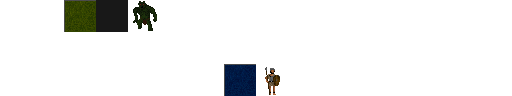
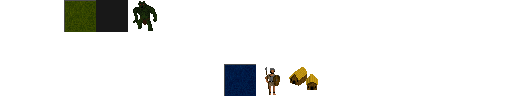
city wip

Changed region(s): [[0.5625, 0.6875, 0.625, 0.9375]]

diff --git a/Serialization/Entities/CitySerialized.cs b/Serialization/Entities/CitySerialized.cs
@@ -1,0 +1,52 @@
+using Newtonsoft.Json;
+using Novalia.Entities;
+using SadRogue.Primitives;
+using System;
+using System.Runtime.Serialization;
+
+namespace Novalia.Serialization.Entities
+{
+    public class CityJsonConverter : JsonConverter<City>
+    {
+        public override void WriteJson(JsonWriter writer, City value, JsonSerializer serializer) => serializer.Serialize(writer, (CitySerialized)value);
+
+        public override City ReadJson(JsonReader reader, Type objectType, City existingValue,
+                                        bool hasExistingValue, JsonSerializer serializer) => serializer.Deserialize<CitySerialized>(reader);
+    }
+
+    [DataContract]
+    public class CitySerialized
+    {
+        [DataMember] public Point Position;
+        [DataMember] string TemplateId;
+        [DataMember] Guid CityId;
+        [DataMember] Guid EmpireId;
+        [DataMember] Color EmpireColor;
+        [DataMember] string Name;
+
+        public static implicit operator CitySerialized(City city)
+        {
+            return new CitySerialized()
+            {
+                Position = city.Position,
+                TemplateId = city.TemplateId,
+                CityId = city.Id,
+                EmpireId = city.EmpireId,
+                EmpireColor = city.EmpireColor,
+            };
+        }
+
+        public static implicit operator City(CitySerialized serialized)
+        {
+            //var template = UnitAtlas.ById[serialized.TemplateId];
+            return new City(
+                serialized.Position,
+                0, // TODO
+                serialized.Name,
+                serialized.CityId,
+                serialized.EmpireId,
+                serialized.EmpireColor,
+                serialized.TemplateId);
+        }
+    }
+}

diff --git a/Entities/City.cs b/Entities/City.cs
@@ -1,0 +1,35 @@
+using Newtonsoft.Json;
+using Novalia.Maps;
+using Novalia.Serialization.Entities;
+using SadRogue.Primitives;
+using System;
+using System.Diagnostics;
+
+namespace Novalia.Entities
+{
+    [DebuggerDisplay("{DebuggerDisplay,nq}")]
+    [JsonConverter(typeof(CityJsonConverter))]
+    public class City : NovaEntity
+    {
+        public City(
+                Point position,
+                int glyph,
+                string name,
+                Guid id,
+                Guid empireId,
+                Color empireColor,
+                string templateId)
+            : base(position, glyph, name, true, true, (int)MapEntityLayer.IMPROVEMENTS, id)
+        {
+            EmpireId = empireId;
+            EmpireColor = empireColor;
+            TemplateId = templateId;
+        }
+
+        public Guid EmpireId { get; }
+        public Color EmpireColor { get; }
+        public string TemplateId { get; }
+
+        private string DebuggerDisplay => $"{nameof(City)}: {Name}";
+    }
+}

diff --git a/Entities/CityAtlas.cs b/Entities/CityAtlas.cs
@@ -1,0 +1,31 @@
+using Novalia.Fonts;
+using System;
+using System.Collections.Generic;
+using System.Linq;
+using System.Reflection;
+
+namespace Novalia.Entities
+{
+    public static class CityAtlas
+    {
+        private static readonly Lazy<Dictionary<string, CityTemplate>> _byId;
+
+        static CityAtlas()
+        {
+            _byId = new Lazy<Dictionary<string, CityTemplate>>(() => typeof(CityAtlas)
+                .GetProperties(BindingFlags.Public | BindingFlags.Static)
+                .Where(p => p.PropertyType == typeof(CityTemplate))
+                .Select(p => p.GetValue(null))
+                .OfType<CityTemplate>()
+                .ToDictionary(
+                i => i.Id,
+                i => i));
+        }
+
+        public static Dictionary<string, CityTemplate> ById => _byId.Value;
+
+        public static CityTemplate HumanTown => new CityTemplate(
+            "CITY_HUMAN",
+            WorldGlyphAtlas.City);
+    }
+}

diff --git a/Entities/CityTemplate.cs b/Entities/CityTemplate.cs
@@ -1,0 +1,16 @@
+namespace Novalia.Entities
+{
+    public class CityTemplate
+    {
+        public CityTemplate(
+            string id,
+            int glyph)
+        {
+            Id = id;
+            Glyph = glyph;
+        }
+
+        public string Id { get; }
+        public int Glyph { get; }
+    }
+}

diff --git a/Fonts/WorldGlyphAtlas.cs b/Fonts/WorldGlyphAtlas.cs
@@ -14,6 +14,9 @@
         public const int Unit_CaveTroll = 4;
         public const int Unit_Spearman = 40;
 
+        // Improvements
+        public const int City = 41;
+
         // Gui
         public const int UnitBanner = 8;
         public const int SelectionOverlay = 9;
